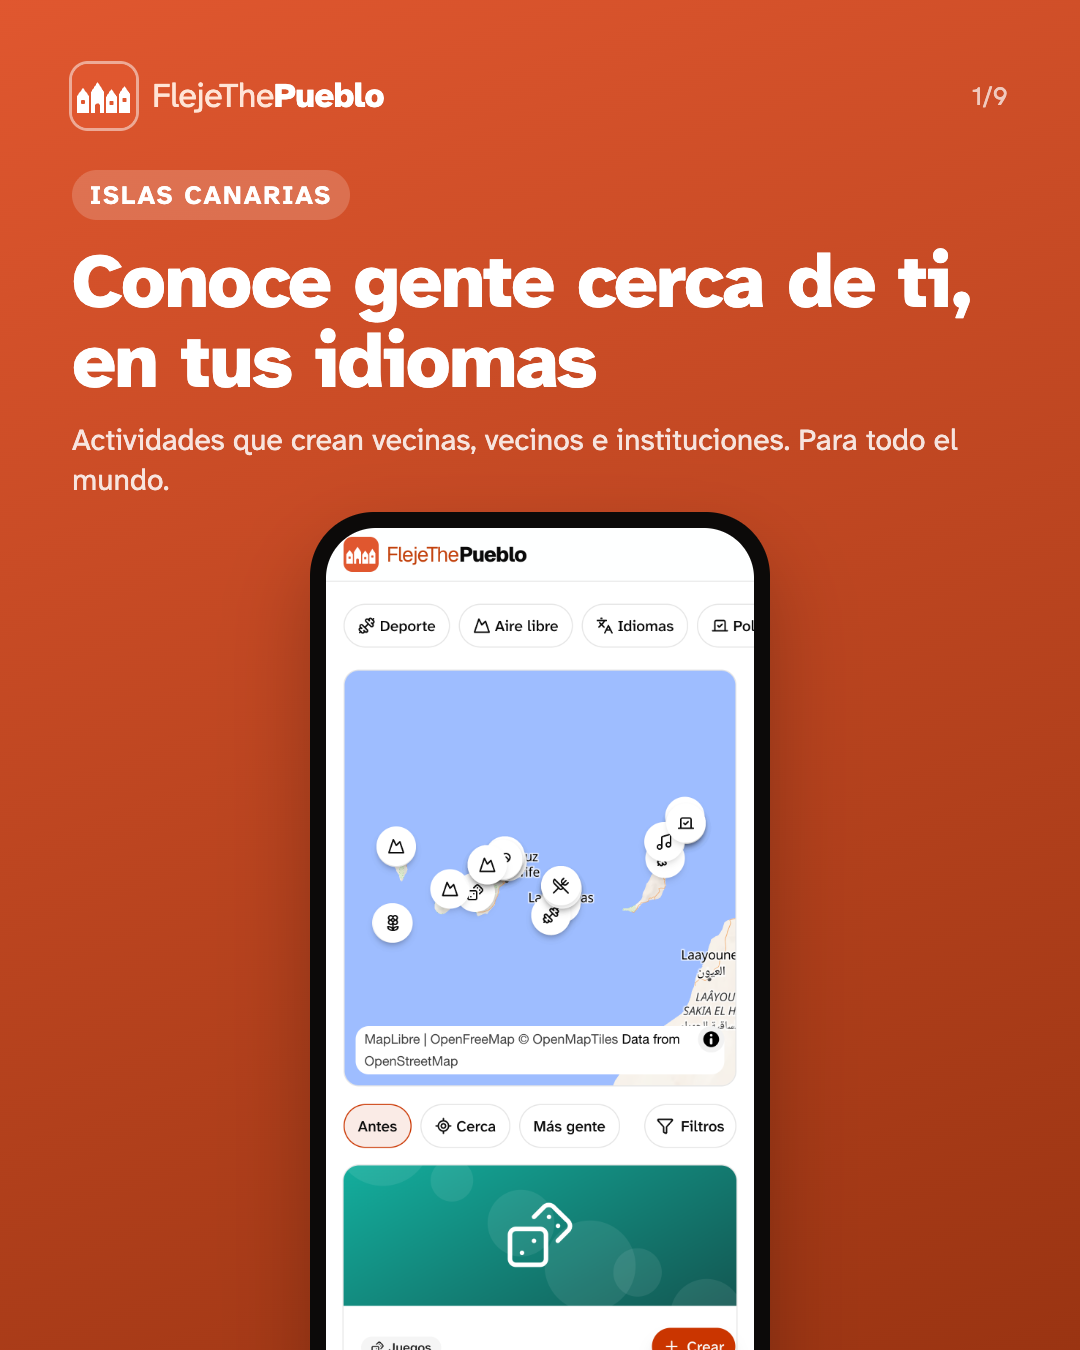
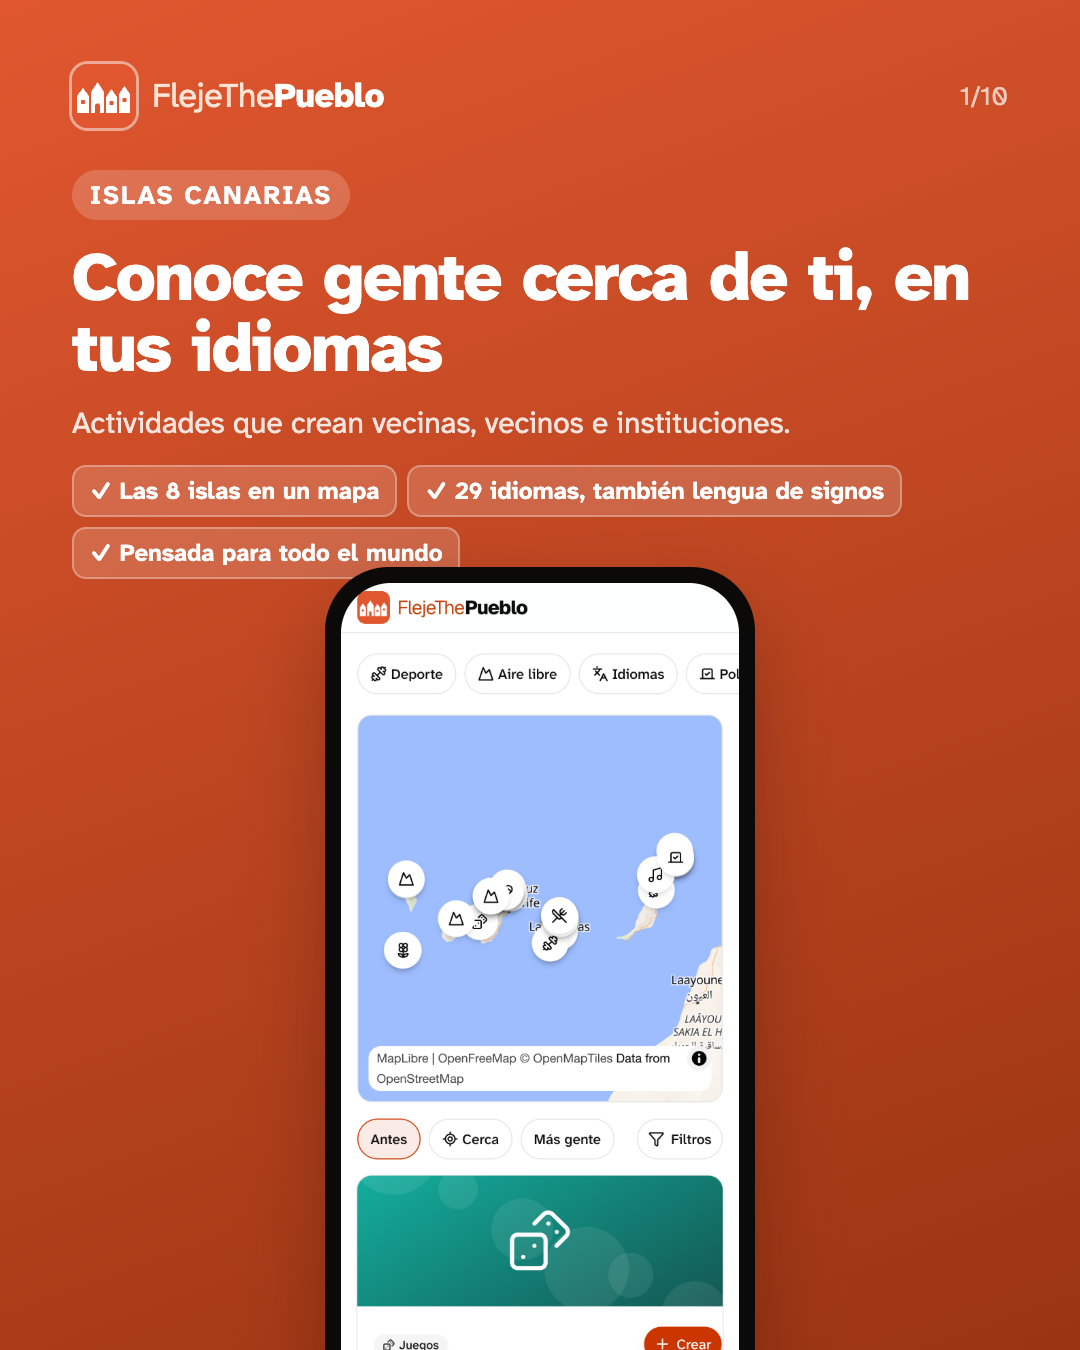
Carousel: 10 slides, one per main screen, with three details each

Changed region(s): [[0.0611, 0.1867, 0.9167, 1.0], [0.8861, 0.0622, 0.9472, 0.0933]]

diff --git a/README.md b/README.md
@@ -11,7 +11,7 @@ Next.js (React + TypeScript + Tailwind) → exportación estática → Firebase 
 | [CONTEXT.md](CONTEXT.md) | Qué construimos y por qué |
 | [ARCHITECTURE.md](ARCHITECTURE.md) | Stack, paquetes, modelo de datos, IA local, hosting |
 | [TODO.md](TODO.md) | La lista de tareas pendientes, por apartado |
-| [marketing/carrusel/](marketing/carrusel/) | 9 imágenes 1080×1350 para redes, con capturas reales |
+| [marketing/carrusel/](marketing/carrusel/) | 10 imágenes 1080×1350 para redes: una por pantalla principal, con 3 detalles cada una |
 | [PLAN.md](PLAN.md) | Fases, los tres bloques de tareas, guion de la demo |
 
 ## Puesta en marcha (una vez)
